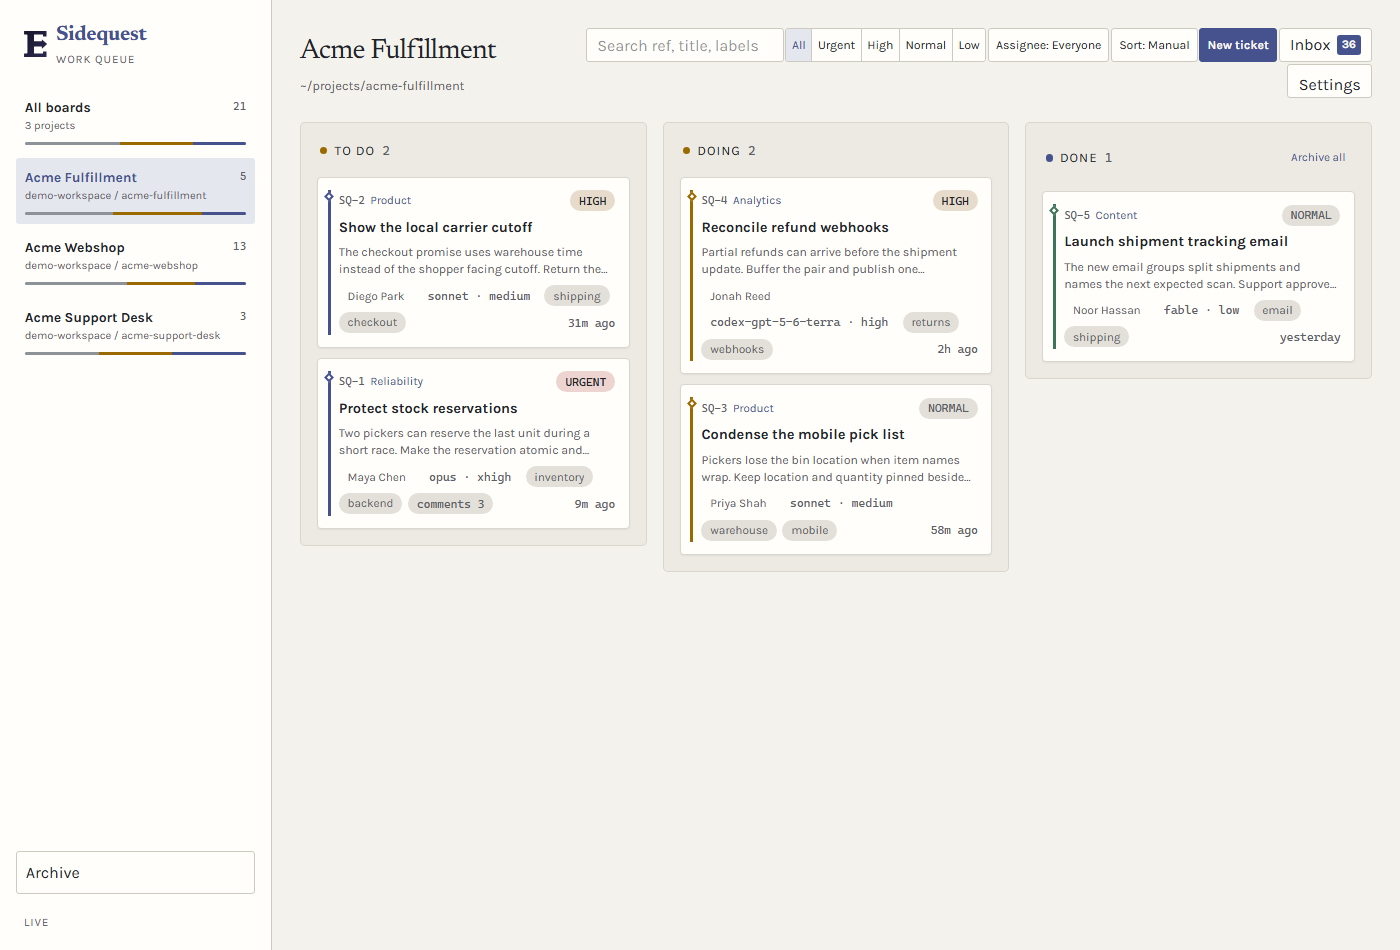
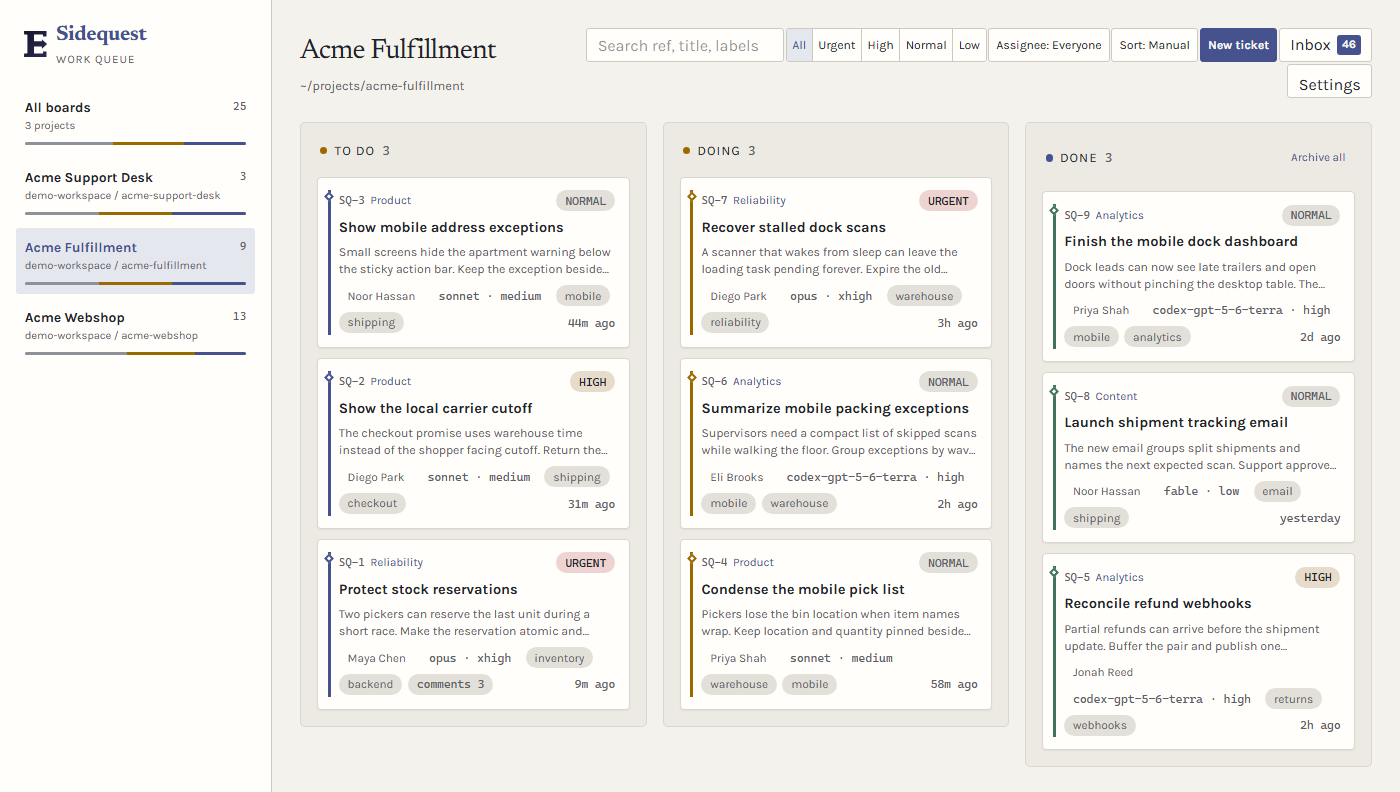
docs(sidequest): fill and crop dashboard screenshots

diff --git a/docs/src/content/docs/getting-started/sidequest.md b/docs/src/content/docs/getting-started/sidequest.md
@@ -44,19 +44,19 @@ The project rail keeps every registered board in one place, with ticket counts a
 
 ![Sidequest dashboard with three synthetic projects and populated todo, doing, and done columns](../../../assets/screenshots/sidequest-kanban.png)
 
-*Synthetic demo data showing three active project boards and 21 tickets.*
+*Synthetic demo data showing three active project boards and 25 tickets.*
 
 Select a project in the rail when you need its focused board. The columns keep that project's open and completed work visible without losing the rest of the rail.
 
 ![Acme Fulfillment synthetic board selected in the Sidequest project rail](../../../assets/screenshots/sidequest-second-project.png)
 
-*Synthetic demo data showing the Acme Fulfillment board selected from a three-project rail.*
+*Synthetic demo data showing nine active Fulfillment tickets across todo, doing, and done.*
 
 The toolbar searches refs, titles, and labels, then combines that query with priority, story, assignee, and sort controls. Active filters stay visible, so you can tell why a card is in the result.
 
 ![Sidequest board with mobile typed into search and the normal priority filter active](../../../assets/screenshots/sidequest-filtered-board.png)
 
-*Synthetic demo data showing a mobile search narrowed to normal-priority tickets.*
+*Synthetic demo data showing six mobile tickets narrowed to normal priority.*
 
 The inbox collects comments, reminders, ticket creation, and status activity across projects. Its tabs separate work that needs you from the wider activity stream.
 
@@ -72,9 +72,9 @@ Open a ticket to edit its fields and read the working context in one place. The 
 
 Completed work can move into the archive without disappearing. The archive view keeps the source board, priority, age, and restore action with each ticket.
 
-![Sidequest archive containing three synthetic tickets from two projects](../../../assets/screenshots/sidequest-archive.png)
+![Sidequest archive containing nine synthetic tickets from three projects](../../../assets/screenshots/sidequest-archive.png)
 
-*Synthetic demo data showing archived storefront and fulfillment work.*
+*Synthetic demo data showing archived storefront, fulfillment, and support work.*
 
 Settings covers routing profiles, model fallback, theme, notification preferences, and the guided tour. Open it when you need to change how the board behaves rather than the work on a ticket.
 
